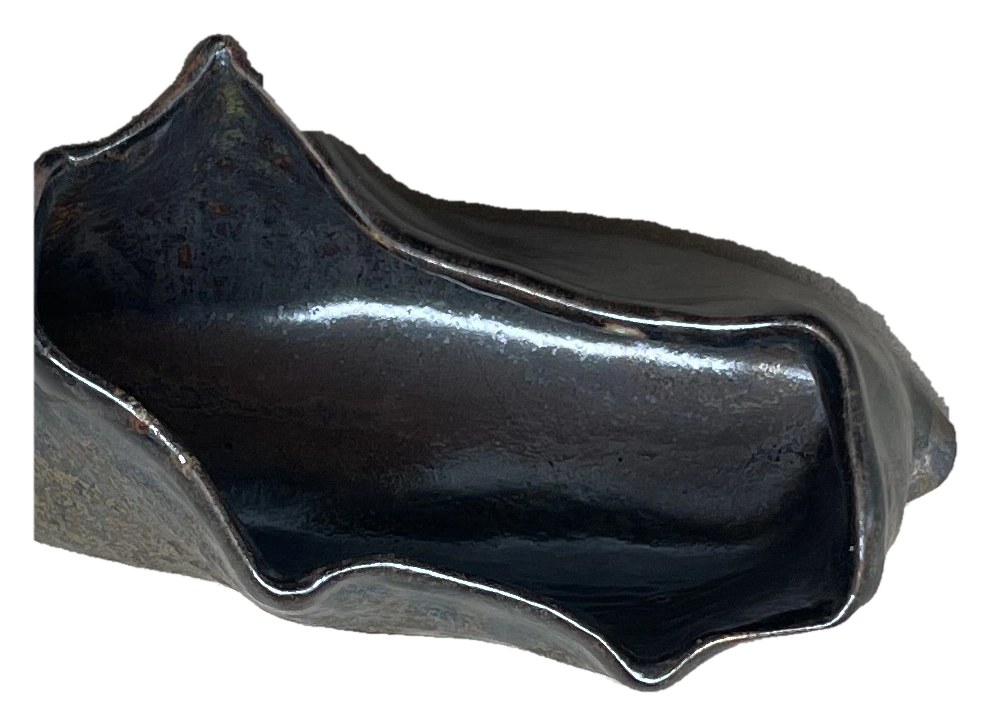
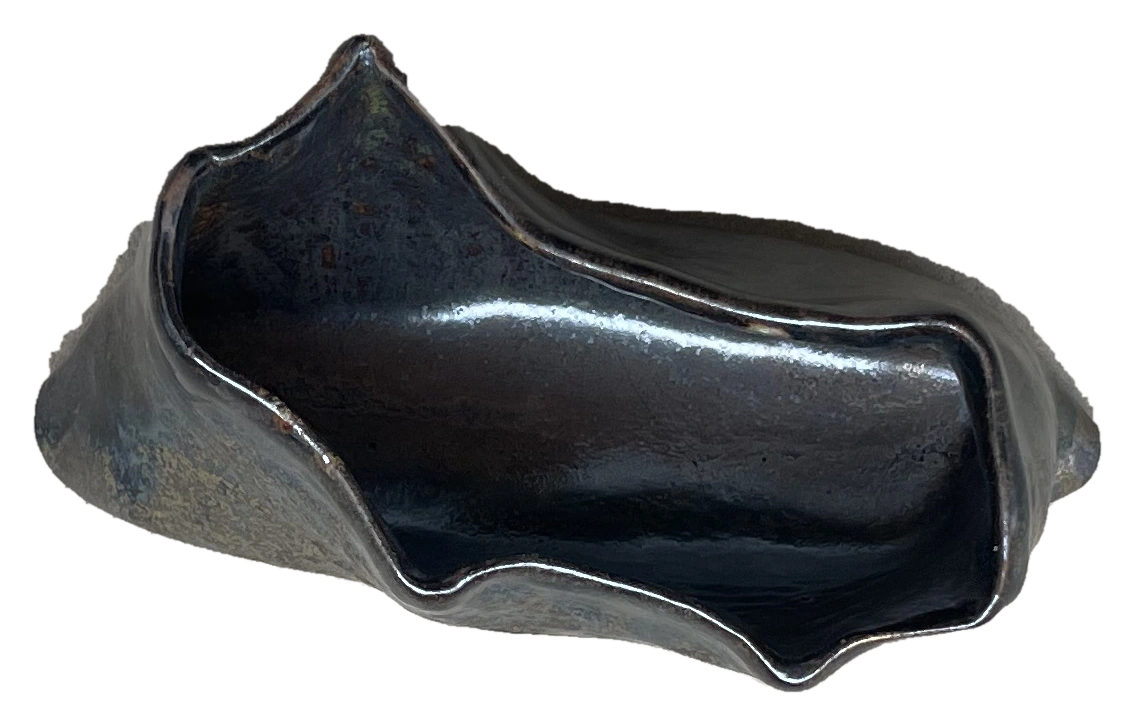
Add Trees collection and update feature images

diff --git a/collected/trees/index.html b/collected/trees/index.html
@@ -1,0 +1,60 @@
+<!DOCTYPE html>
+<html lang="en">
+<head>
+  <meta charset="UTF-8">
+  <meta name="viewport" content="width=device-width, initial-scale=1.0">
+  <title>Trees — danyang</title>
+  <meta name="description" content="Trees — a collected visual series by danyang.">
+
+  <link rel="preconnect" href="https://fonts.googleapis.com">
+  <link rel="preconnect" href="https://fonts.gstatic.com" crossorigin>
+  <link href="https://fonts.googleapis.com/css2?family=Instrument+Sans:ital,wght@0,400;0,500;1,400&family=Newsreader:ital,wght@0,400;0,500;1,400&display=swap" rel="stylesheet">
+  <link rel="stylesheet" href="/css/style.css?v=23">
+</head>
+<body>
+
+  <a href="#main" class="skip-link">Skip to content</a>
+
+  <header class="site-header">
+    <a href="/" class="site-title">danyang</a>
+    <nav class="site-nav" aria-label="Main navigation">
+      <a href="/rock/" class="nav-link">Rock</a>
+      <a href="/clay/" class="nav-link">Clay</a>
+      <a href="/moving/" class="nav-link">Moving</a>
+      <a href="/collected/" class="nav-link nav-link--active" aria-current="page">Collected</a>
+      <a href="/new-york-and-around/" class="nav-link">New York and Around</a>
+      <a href="/about/" class="nav-link">About</a>
+    </nav>
+  </header>
+
+  <main id="main">
+    <div class="project-hero">
+      <h1>Trees</h1>
+      <p class="project-year"><a href="/collected/">Collected</a></p>
+    </div>
+
+    <div class="project-gallery">
+      <figure class="gallery-item gallery-item--full">
+        <img
+          src="/assets/images/photography/trees-cover.jpg"
+          alt="Ancient broad-trunked trees surrounded by orange and green autumn leaves"
+          width="1800" height="1350"
+          loading="eager"
+          fetchpriority="high"
+        >
+      </figure>
+    </div>
+  </main>
+
+  <footer class="site-footer">
+    <div class="footer-inner">
+      <span class="footer-name">danyang</span>
+      <nav class="footer-links" aria-label="Footer navigation">
+        <a href="mailto:hello@danyanghere.com">Email</a>
+        <a href="https://instagram.com/" target="_blank" rel="noopener noreferrer">Instagram</a>
+      </nav>
+    </div>
+  </footer>
+
+</body>
+</html>

diff --git a/clay/index.html b/clay/index.html
@@ -122,7 +122,7 @@
 
       <article class="pottery-piece pottery-piece--23 pottery-piece--new-cutout" data-treatment="object" data-asset-status="transparent-cutout">
         <button class="pottery-object" type="button" data-title="IMG_0241" data-meta="" aria-label="View IMG_0241">
-          <span class="pottery-photograph"><img src="/assets/images/ceramics/new/isolated/IMG_0241.webp" alt="Small dark angular ceramic vessel viewed from above" width="991" height="726" loading="lazy" decoding="async"></span>
+          <span class="pottery-photograph"><img src="/assets/images/ceramics/new/isolated/IMG_0241.webp?v=full-left" alt="Small dark angular ceramic vessel viewed from above" width="1135" height="726" loading="lazy" decoding="async"></span>
           <span class="pottery-caption"><span>IMG_0241</span></span>
         </button>
       </article>

diff --git a/collected/index.html b/collected/index.html
@@ -50,6 +50,21 @@
         </a>
       </article>
 
+      <article class="fruit-entry">
+        <a href="/collected/trees/">
+          <img
+            src="/assets/images/photography/trees-cover.jpg"
+            alt="Ancient broad-trunked trees surrounded by orange and green autumn leaves"
+            width="1800" height="1350"
+            loading="eager"
+          >
+          <div class="fruit-info">
+            <p class="fruit-name">Trees</p>
+            <p class="fruit-place">View collection</p>
+          </div>
+        </a>
+      </article>
+
       <!--
         ============================================================
         FRUIT ENTRY

diff --git a/rock/index.html b/rock/index.html
@@ -47,8 +47,8 @@
       -->
       <a href="/rock/rock-temporarily/" class="project-card">
         <img
-          src="/assets/images/photography/rock-temp-01.jpg"
-          alt="Pink climbing rope knotted against a massive granite face in dappled light"
+          src="/assets/images/photography/ice-climbing-01.jpg?v=temporary-cover"
+          alt="Bright orange climbing rope crossing a dark, snow-covered ice-climbing wall"
           width="1800" height="1350"
           loading="eager"
           fetchpriority="high"
